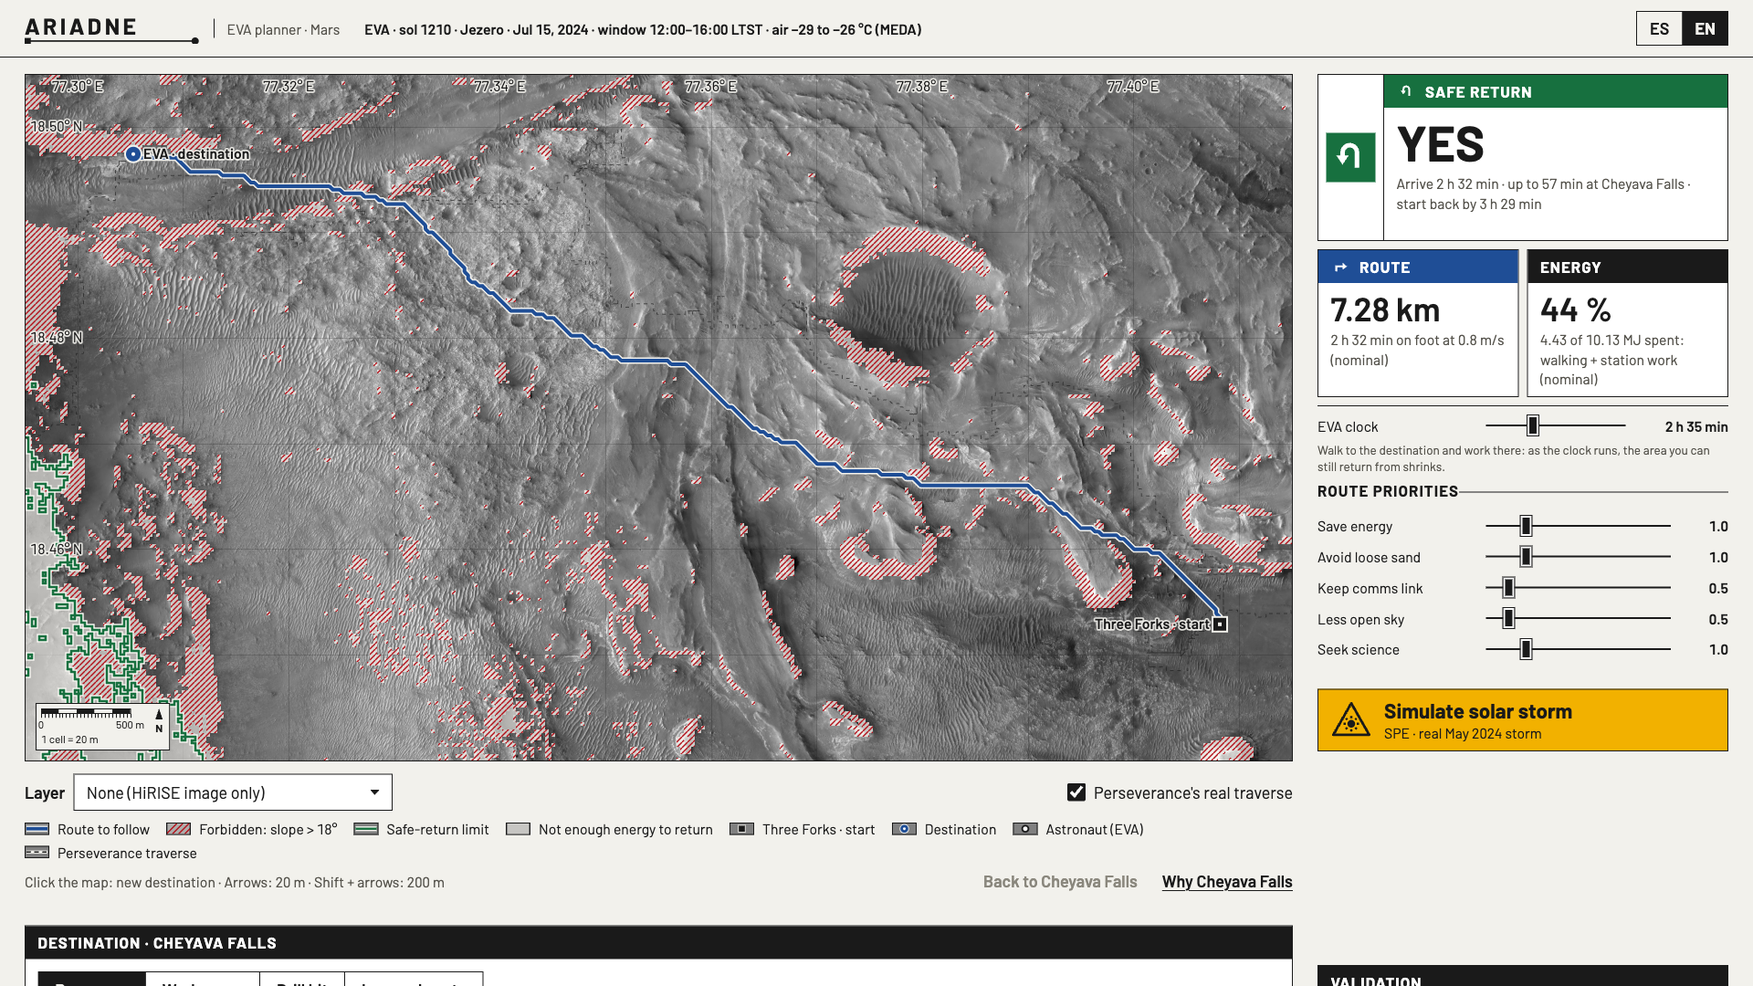
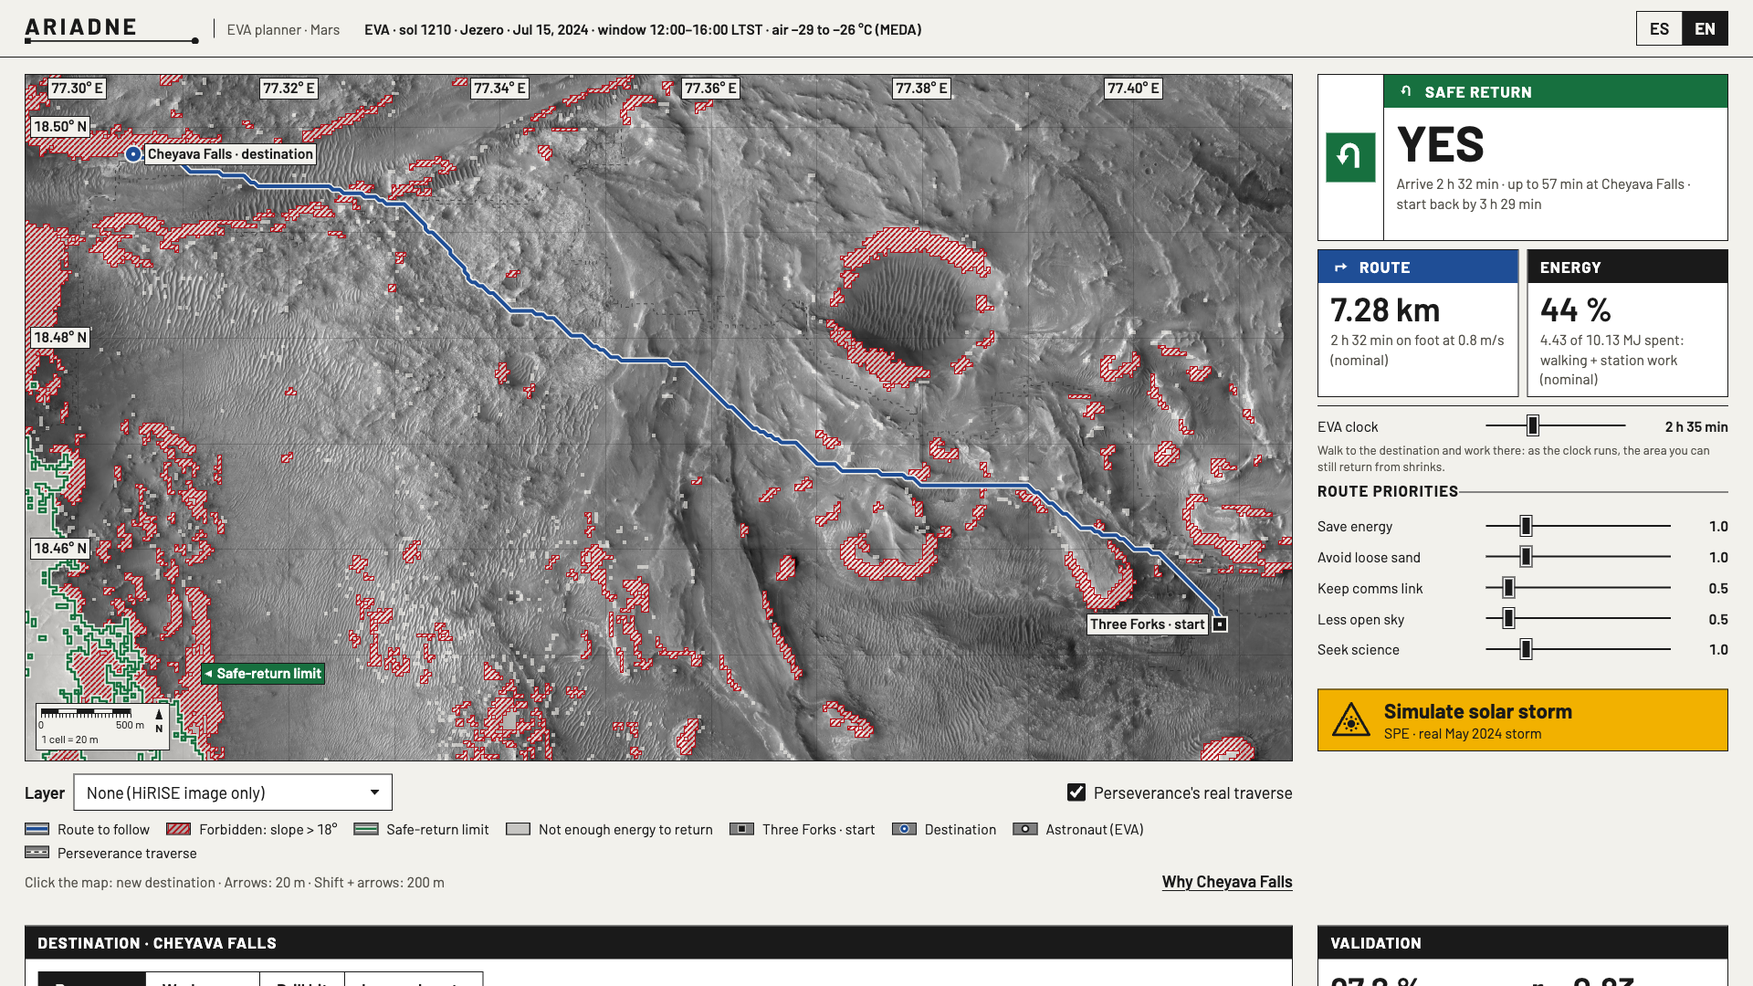
red zone contour, plate labels, cleaner panorama

diff --git a/app/web/main.js b/app/web/main.js
@@ -29,7 +29,8 @@ const state = { goal: 0, route: [], stats: null, spe: null, safe: "pending", spe
 
 const canvas = $("map"), ctx = canvas.getContext("2d");
 let k = 1, sx = 1, sy = 1;
-let bgCache, hatchCache, geoCache, geoEdges, envCanvas, envPath, layerCanvas, forbidMask;
+let bgCache, hatchCache, geoCache, geoEdges, envCanvas, envPath, envNote, layerCanvas, forbidMask, forbidCells, forbidPath;
+const MIN_FORBID_CELLS = 4;
 const unitMasks = new Map(), ranges = {};
 const idx = ([r, c]) => r * cols + c;
 const weights = () => Object.fromEntries(WEIGHTS.map((w) => [w, Number($(`w-${w}`).value)]));
@@ -49,7 +50,7 @@ function pattern(spec, kk) {
 }
 function hatchPattern() {
   const T = Math.round(6 * k), c = mk(T, T), x = c.getContext("2d");
-  x.strokeStyle = tok("--red"); x.lineWidth = 1.5 * k; x.beginPath();
+  x.strokeStyle = tok("--red"); x.lineWidth = Math.max(2, 2 * k); x.beginPath();
   for (const o of [-T, 0, T]) { x.moveTo(o, T); x.lineTo(o + T, 0); }
   x.stroke();
   return x.createPattern(c, "repeat");
@@ -63,6 +64,20 @@ function edges(a) {
     if (r + 1 < rows && a[i] !== a[i + cols]) { const y = Math.round((r + 1) * sy); p.moveTo(Math.round(c * sx), y); p.lineTo(Math.round((c + 1) * sx), y); }
   }
   return p;
+}
+
+function forbidVisual(e) {
+  const out = new Uint8Array(e.length), seen = new Uint8Array(e.length);
+  for (let s = 0; s < e.length; s++) {
+    if (e[s] !== Infinity || seen[s]) continue;
+    const reg = [s]; seen[s] = 1;
+    for (let n = 0; n < reg.length; n++) {
+      const i = reg[n], r = (i / cols) | 0, c = i % cols;
+      for (const j of [c > 0 ? i - 1 : -1, c + 1 < cols ? i + 1 : -1, r > 0 ? i - cols : -1, r + 1 < rows ? i + cols : -1]) if (j >= 0 && e[j] === Infinity && !seen[j]) { seen[j] = 1; reg.push(j); }
+    }
+    if (reg.length >= MIN_FORBID_CELLS) for (const i of reg) out[i] = 1;
+  }
+  return out;
 }
 
 function sign(id, cx, cy, size) {
@@ -93,7 +108,20 @@ function updateEnv() {
   for (let i = 0; i < envMask.length; i++) if (!envMask[i]) id.data.set([r, g, b, a], i * 4);
   envCanvas ??= mk(cols, rows);
   envCanvas.getContext("2d").putImageData(id, 0, 0);
-  envPath = edges(envMask.map((v, i) => v || returnEnergy[i] === Infinity ? 1 : 0));
+  const inside = envMask.map((v, i) => v || returnEnergy[i] === Infinity ? 1 : 0);
+  envPath = edges(inside);
+  const bx = Math.round(cols * 0.15), by = Math.round(rows * 0.15), hug = { left: [], right: [], top: [], bottom: [] };
+  let inner = 0;
+  for (let i = 0; i < inside.length; i++) {
+    const c = i % cols, r = (i / cols) | 0;
+    if (!((c + 1 < cols && inside[i] !== inside[i + 1]) || (r + 1 < rows && inside[i] !== inside[i + cols]))) continue;
+    if (c < bx) hug.left.push([r, c]); else if (c >= cols - bx) hug.right.push([r, c]); else if (r < by) hug.top.push([r, c]); else if (r >= rows - by) hug.bottom.push([r, c]); else inner++;
+  }
+  const side = Object.keys(hug).sort((a, b) => hug[b].length - hug[a].length)[0], e = hug[side];
+  envNote = inner >= 60 ? null : !e.length ? { side: "none" } : (() => {
+    const horiz = side === "left" || side === "right", along = e.map((p) => p[horiz ? 0 : 1]).sort((a, b) => a - b)[e.length >> 1], depth = e.map((p) => p[horiz ? 1 : 0]);
+    return { side, along, depth: side === "left" || side === "top" ? Math.max(...depth) : Math.min(...depth) };
+  })();
 }
 
 function recompute() {
@@ -105,7 +133,7 @@ function recompute() {
   if (!state.moved) $("elapsed").value = state.route.length ? Math.min($("elapsed").max, Math.ceil(state.tl.tArr / 300) * 5) : 0;
   renderOutputs(); clearSpe(); updateEnv(); renderPanels(); draw();
 }
-function setGoal(i) { state.goal = i; state.moved = false; $("reset-goal").disabled = i === cheyava; recompute(); }
+function setGoal(i) { state.goal = i; state.moved = false; $("reset-goal").hidden = i === cheyava; recompute(); }
 
 function simulateSpe() {
   if (state.spe) { clearSpe(); draw(); return; }
@@ -300,7 +328,7 @@ function rebuildStatic() {
   hx.drawImage(forbidMask, 0, 0, W, H); hx.globalCompositeOperation = "source-in"; hx.fillStyle = tok("--wash-forbid"); hx.fillRect(0, 0, W, H);
   lx.fillStyle = hatchPattern(); lx.fillRect(0, 0, W, H); lx.globalCompositeOperation = "destination-in"; lx.drawImage(forbidMask, 0, 0, W, H);
   hx.globalCompositeOperation = "source-over"; hx.drawImage(l, 0, 0);
-  geoCache = null;
+  geoCache = null; forbidPath = edges(forbidCells);
   updateEnv();
 }
 function resize() {
@@ -343,6 +371,7 @@ function draw() {
   ctx.stroke();
   ctx.drawImage(envCanvas, 0, 0, W, H); ctx.drawImage(hatchCache, 0, 0);
   ctx.lineCap = "square"; ctx.lineJoin = "miter";
+  ctx.save(); if (Math.round(k) % 2) ctx.translate(0.5, 0.5); ctx.strokeStyle = tok("--red"); ctx.lineWidth = Math.max(1, Math.round(k)); ctx.stroke(forbidPath); ctx.restore();
   ctx.strokeStyle = ground; ctx.lineWidth = 5.5 * k; ctx.stroke(envPath);
   ctx.strokeStyle = tok("--green"); ctx.lineWidth = 2.5 * k; ctx.stroke(envPath);
 
@@ -357,8 +386,8 @@ function draw() {
   const dot = (x, y, r, c) => { ctx.beginPath(); ctx.arc(x, y, r, 0, TAU); ctx.fillStyle = c; ctx.fill(); };
   const mark = (text, x, y) => {
     ctx.font = font(600, FS);
-    const flip = x + 11 + ctx.measureText(text).width > Wc - 4;
-    labels.push({ text, x: flip ? x - 11 : x + 11, y, a: flip ? "right" : "left", w: 600, s: FS });
+    const flip = x + 16 + ctx.measureText(text).width + 8 > Wc - 4;
+    labels.push({ text, x: flip ? x - 16 : x + 16, y, a: flip ? "right" : "left", s: FS });
   };
   ctx.lineJoin = "round";
   if ($("show-traverse").checked && trav.length > 1) { ctx.lineCap = "butt"; ctx.globalAlpha = 0.6; trace(trav, ink, 1, [4, 4]); ctx.globalAlpha = 1; }
@@ -372,26 +401,48 @@ function draw() {
     const [x, y] = P(state.goal);
     dot(x, y, 10, ground); dot(x, y, 8, blue); dot(x, y, 2, surface);
     if (state.safe === "forbidden") { ctx.beginPath(); ctx.arc(x, y, 11, 0, TAU); ctx.strokeStyle = tok("--red"); ctx.lineWidth = 2; ctx.stroke(); }
-    mark(t(onGoal ? "label.eva_dest" : state.goal === cheyava ? "label.cheyava" : "label.dest"), x, y);
+    mark(t(state.goal === cheyava ? "label.cheyava_dest" : "label.dest"), x, y);
   }
   if (eva && !onGoal) { const [x, y] = P(astronautCell()); dot(x, y, 8.75, ground); dot(x, y, 7.25, ink); dot(x, y, 4.75, surface); mark(t("label.eva"), x, y); }
   if (state.spe && state.spe.refuge !== habitat) { const [x, y0] = P(state.spe.refuge), y = state.spe.kind === "here" ? y0 - 20 : y0; box(x, y, 22, ground); sign("s-refuge", x, y, 18); mark(t("label.refuge"), x, y); }
-  if (key === "geo_unit") for (const u of geoInfo) if (u.n >= 150) { const [x, y] = P(u.cell); labels.push({ text: u.symbol, x, y, a: "center", w: 600, s: 12 }); }
-  for (const [v, c] of grat.lon) if (Math.round(v * 100) % 2 === 0 && c * sx / k > 24 && c * sx / k < Wc - 24) labels.push({ text: t("grat.lon", { v: num(v, 2) }), x: c * sx / k, y: 14, a: "center", w: 400, s: FS });
-  for (const [v, r] of grat.lat) if (Math.round(v * 100) % 2 === 0 && r * sy / k > 24 && r * sy / k < Hc - 60) labels.push({ text: t("grat.lat", { v: num(v, 2) }), x: 6, y: r * sy / k, a: "left", w: 400, s: FS });
-  ctx.textBaseline = "middle"; ctx.lineJoin = "round"; ctx.setLineDash([]);
-  for (const l of labels) {
-    ctx.font = font(l.w, l.s); ctx.textAlign = l.a; ctx.lineWidth = 3.5; ctx.strokeStyle = tok("--halo"); ctx.strokeText(l.text, l.x, l.y);
-    ctx.fillStyle = ink; ctx.fillText(l.text, l.x, l.y);
+  if (key === "geo_unit") for (const u of geoInfo) if (u.n >= 150) { const [x, y] = P(u.cell); labels.push({ text: u.symbol, x, y, a: "center", s: 12 }); }
+  const sb = scaleBox(Hc, ink, ground, font, Wc < 600), placed = [sb];
+  const hair = 1 / k, snap = (v) => Math.round(v * k) / k, PADX = 4;
+  ctx.textBaseline = "middle"; ctx.setLineDash([]);
+  const plate = (l, optional) => {
+    ctx.font = font(600, l.s);
+    const tw = ctx.measureText(l.text).width, ar = l.arrow, ex = ar === "left" || ar === "right" ? 14 : 0, ey = ar === "up" || ar === "down" ? 12 : 0;
+    const w = snap(tw + 2 * PADX + ex), h = snap(Math.round(l.s * 1.5) + ey);
+    const x = snap(l.a === "left" ? l.x - PADX - (ar === "left" ? ex : 0) : l.a === "right" ? l.x - w + PADX + (ar === "right" ? ex : 0) : l.x - w / 2), y = snap(l.y - h / 2), r = { x, y, w, h };
+    if (optional && placed.some((p) => r.x < p.x + p.w && r.x + r.w > p.x && r.y < p.y + p.h && r.y + r.h > p.y)) return null;
+    placed.push(r);
+    ctx.fillStyle = l.fill ?? ground; ctx.fillRect(x, y, w, h);
+    ctx.strokeStyle = ink; ctx.lineWidth = hair; ctx.strokeRect(x + hair / 2, y + hair / 2, w - hair, h - hair);
+    const cx = x + (ar === "left" ? ex : 0) + (w - ex) / 2, cy = y + (ar === "up" ? ey : 0) + (h - ey) / 2;
+    ctx.fillStyle = l.color ?? ink; ctx.textAlign = "center"; ctx.fillText(l.text, cx, cy);
+    if (ar) {
+      const [mx, my] = { left: [x + 4, y + h / 2], right: [x + w - 4, y + h / 2], up: [x + w / 2, y + 3], down: [x + w / 2, y + h - 3] }[ar], d = { left: [1, 0], right: [-1, 0], up: [0, 1], down: [0, -1] }[ar];
+      ctx.beginPath(); ctx.moveTo(mx, my); ctx.lineTo(mx + d[0] * 8 - d[1] * 4, my + d[1] * 8 + d[0] * 4); ctx.lineTo(mx + d[0] * 8 + d[1] * 4, my + d[1] * 8 - d[0] * 4); ctx.closePath(); ctx.fill();
+    }
+    return r;
+  };
+  for (const l of labels) plate(l);
+  if (envNote) {
+    const n = envNote, green = tok("--green"), on = tok("--on-color"), cw = sx / k, ch = sy / k, text = t(n.side === "none" ? "label.env_none" : "label.env");
+    const base = { text, s: FS, fill: green, color: on }, at = { none: { a: "right", x: Wc - 12, y: 40 }, left: { a: "left", x: (n.depth + 3) * cw + 8, y: (n.along + 0.5) * ch, arrow: "left" },
+      right: { a: "right", x: (n.depth - 3) * cw - 8, y: (n.along + 0.5) * ch, arrow: "right" }, top: { a: "center", x: (n.along + 0.5) * cw, y: (n.depth + 3) * ch + 16, arrow: "up" }, bottom: { a: "center", x: (n.along + 0.5) * cw, y: (n.depth - 3) * ch - 16, arrow: "down" } }[n.side];
+    for (let i = 0; i < 8 && !plate({ ...base, ...at, y: Math.min(Hc - 30, Math.max(30, at.y)) + ((i + 1) >> 1) * (i % 2 ? -28 : 28) }, true); i++);
   }
-  scaleBox(Hc, ink, ground, font);
+  const gs = Wc < 600 ? 4 : 2;
+  for (const [v, c] of grat.lon) if (Math.round(v * 100) % gs === 0 && c * sx / k > 24 && c * sx / k < Wc - 24) plate({ text: t("grat.lon", { v: num(v, 2) }), x: c * sx / k, y: 16, a: "center", s: FS }, true);
+  for (const [v, r] of grat.lat) if (Math.round(v * 100) % gs === 0 && r * sy / k > 30 && r * sy / k < Hc - 30) plate({ text: t("grat.lat", { v: num(v, 2) }), x: 10, y: r * sy / k, a: "left", s: FS }, true);
 }
 
-function scaleBox(Hc, ink, ground, font) {
+function scaleBox(Hc, ink, ground, font, compact) {
   const cw = sx / k, L = [25, 50, 100].find((n) => n * cw >= 90) ?? 100, bar = L * cw, pad = 6, hair = 1 / k, snap = (v) => Math.round(v * k) / k;
   ctx.font = font(400, 12);
-  const end = `${L * 20} m`, w = Math.max(bar + ctx.measureText(end).width / 2, ctx.measureText(t("scale.cell")).width);
-  const bw = pad * 2 + w + 22, bh = pad * 2 + 6 + 4 + 14 + 16, x0 = 12, y0 = snap(Hc - 12 - bh), bx = x0 + pad, by = y0 + pad;
+  const end = `${L * 20} m`, w = Math.max(bar + ctx.measureText(end).width / 2, compact ? 0 : ctx.measureText(t("scale.cell")).width);
+  const bw = pad * 2 + w + (compact ? 18 : 22), bh = pad * 2 + 6 + 4 + 14 + (compact ? 0 : 16), x0 = 12, y0 = snap(Hc - 12 - bh), bx = x0 + pad, by = y0 + pad;
   ctx.fillStyle = ground; ctx.fillRect(x0, y0, bw, bh);
   ctx.strokeStyle = ink; ctx.lineWidth = hair; ctx.strokeRect(x0 + hair / 2, y0 + hair / 2, bw - hair, bh - hair);
   for (let s = 0; s < L / 5; s++) { ctx.fillStyle = s % 2 ? ground : ink; ctx.fillRect(bx + s * 5 * cw, by, 5 * cw, 6); }
@@ -403,10 +454,11 @@ function scaleBox(Hc, ink, ground, font) {
   const ly = by + 10 + 8;
   ctx.fillText("0", bx, ly); ctx.fillText(end, bx + bar, ly);
   if (5 * cw >= 30) ctx.fillText("100", bx + 5 * cw, ly);
-  ctx.textAlign = "left"; ctx.fillText(t("scale.cell"), bx, ly + 16);
-  const ax = x0 + bw - pad - 6;
-  ctx.beginPath(); ctx.moveTo(ax, by); ctx.lineTo(ax + 4, by + 12); ctx.lineTo(ax - 4, by + 12); ctx.closePath(); ctx.fill();
-  ctx.font = font(700, 12); ctx.textAlign = "center"; ctx.fillText(t("scale.north"), ax, by + 22);
+  if (!compact) { ctx.textAlign = "left"; ctx.fillText(t("scale.cell"), bx, ly + 16); }
+  const ax = x0 + bw - pad - 6, ah = compact ? 8 : 12;
+  ctx.beginPath(); ctx.moveTo(ax, by); ctx.lineTo(ax + 4, by + ah); ctx.lineTo(ax - 4, by + ah); ctx.closePath(); ctx.fill();
+  ctx.font = font(700, 12); ctx.textAlign = "center"; ctx.fillText(t("scale.north"), ax, by + ah + 10);
+  return { x: x0, y: y0, w: bw, h: bh };
 }
 
 const controls = () => document.querySelectorAll(".side-col input, .side-col button, .map-strip input, .map-strip select, #reset-goal");
@@ -444,8 +496,9 @@ async function boot() {
   const walkable = (e) => e !== Infinity;
   traversePct = traverse.length ? (100 * traverse.filter((rc) => walkable(energy[idx(rc)])).length) / traverse.length : NaN;
   basePct = (100 * energy.filter(walkable).length) / energy.length;
+  forbidCells = forbidVisual(energy);
   forbidMask = mk(cols, rows);
-  { const id = new ImageData(cols, rows); for (let i = 0; i < energy.length; i++) if (energy[i] === Infinity) id.data[i * 4 + 3] = 255; forbidMask.getContext("2d").putImageData(id, 0, 0); }
+  { const id = new ImageData(cols, rows); for (let i = 0; i < forbidCells.length; i++) if (forbidCells[i]) id.data[i * 4 + 3] = 255; forbidMask.getContext("2d").putImageData(id, 0, 0); }
   if (layers.geo_unit && geounits) {
     const acc = new Map(), g = layers.geo_unit;
     for (let i = 0; i < g.length; i++) if (g[i]) { const a = acc.get(g[i]) ?? { n: 0, r: 0, c: 0, d: Infinity }; a.n++; a.r += (i / cols) | 0; a.c += i % cols; acc.set(g[i], a); }
@@ -481,12 +534,13 @@ async function boot() {
 
   ready = true;
   for (const c of controls()) c.disabled = false;
-  $("reset-goal").disabled = true; $("status").hidden = true;
+  $("reset-goal").hidden = true; $("status").hidden = true;
   buildLayer();
   let rz; new ResizeObserver(() => { clearTimeout(rz); rz = setTimeout(resize, 100); }).observe(canvas);
   resize();
   recompute();
   renderAll();
+  { const sc = document.querySelector(".map-scroll"), mid = ((habitat % cols) + (cheyava % cols)) / 2 / cols; sc.scrollLeft = Math.max(0, sc.scrollWidth * mid - sc.clientWidth / 2); }
   document.querySelector("main").setAttribute("aria-busy", "false");
 }
 boot().catch((e) => { console.error(e); showCoreError(e.file ?? e.message); });

diff --git a/app/web/index.html b/app/web/index.html
@@ -40,14 +40,14 @@
     <div class="col">
     <section class="map-col" aria-labelledby="map-t">
       <h2 id="map-t" class="sr" data-i18n="map.region">Mapa de la EVA, cráter Jezero</h2>
-      <div class="map-frame">
+      <div class="map-scroll"><div class="map-frame">
         <canvas id="map" tabindex="0" role="application" data-i18n-aria="map.canvas" aria-label="Mapa de Jezero con la ruta desde Three Forks. Flechas: mueve el destino 20 m; Mayús y flechas: 200 m."></canvas>
         <p id="status" class="status" data-i18n="map.loading">Cargando datos de Jezero…</p>
         <section id="map-error" class="z535 map-error" data-tone="danger" role="alert" aria-labelledby="err-t" hidden>
           <h2 class="band" id="err-t"><svg class="glyph" aria-hidden="true"><use href="#g-prohibit"/></svg><span data-i18n="err.title">Error de datos</span></h2>
           <div class="body"><p id="err-body" class="detail"></p></div>
         </section>
-      </div>
+      </div></div>
 
       <div class="map-strip">
         <div class="strip-a">
@@ -70,7 +70,7 @@
 
         <ul class="legend" aria-label="Leyenda" data-i18n-aria="legend.title">
           <li><svg class="lg" viewBox="0 0 24 12" aria-hidden="true"><path d="M0 6H24" style="stroke:var(--ground)" stroke-width="7"/><path d="M0 6H24" style="stroke:var(--blue)" stroke-width="4"/></svg><span data-lg="route">Ruta a seguir</span></li>
-          <li><svg class="lg" viewBox="0 0 24 12" aria-hidden="true"><rect width="24" height="12" style="fill:var(--ground);fill-opacity:.4"/><path d="M-2 12L10 0M5 12L17 0M12 12L24 0M19 12L31 0" style="stroke:var(--red)" stroke-width="1.5"/></svg><span data-lg="forbidden">Prohibido: pendiente &gt; 18°</span></li>
+          <li><svg class="lg" viewBox="0 0 24 12" aria-hidden="true"><rect width="24" height="12" style="fill:var(--ground);fill-opacity:.4"/><path d="M-2 12L10 0M5 12L17 0M12 12L24 0M19 12L31 0" style="stroke:var(--red)" stroke-width="2"/><rect x=".5" y=".5" width="23" height="11" fill="none" style="stroke:var(--red)"/></svg><span data-lg="forbidden">Prohibido: pendiente &gt; 18°</span></li>
           <li><svg class="lg" viewBox="0 0 24 12" aria-hidden="true"><path d="M0 6H24" style="stroke:var(--ground)" stroke-width="5.5"/><path d="M0 6H24" style="stroke:var(--green)" stroke-width="2.5"/></svg><span data-lg="envelope">Límite de vuelta segura</span></li>
           <li><svg class="lg" viewBox="0 0 24 12" aria-hidden="true"><rect width="24" height="12" style="fill:var(--ground);fill-opacity:.62"/></svg><span data-lg="outside">Sin energía para volver</span></li>
           <li><svg class="lg" viewBox="0 0 24 12" aria-hidden="true"><rect x="8" y="2" width="8" height="8" style="fill:var(--ink);stroke:var(--ground)" stroke-width="1"/></svg><span data-lg="start">Three Forks · inicio</span></li>
@@ -83,8 +83,8 @@
 
         <div class="strip-c">
           <p id="hint" class="hint">Clic en el mapa: nuevo destino · Flechas: 20 m · Mayús + flechas: 200 m</p>
-          <button type="button" id="reset-goal" class="text-btn" data-i18n="map.reset" disabled>Volver a Cheyava Falls</button>
           <a href="#destino" id="why" class="text-btn" data-i18n="map.why">Por qué Cheyava Falls</a>
+          <button type="button" id="reset-goal" class="text-btn" data-i18n="map.reset" hidden>Volver a Cheyava Falls</button>
         </div>
       </div>
     </section>

diff --git a/app/web/style.css b/app/web/style.css
@@ -51,11 +51,13 @@ html, .viewer { scrollbar-color: var(--ink) var(--ground-2); }
 .lang button[aria-pressed="true"] { background: var(--ink); color: var(--ground); font-weight: 700; }
 .lang button:not([aria-pressed="true"]):hover { background: var(--ground-2); }
 
-.console { display: grid; grid-template-columns: minmax(0, 1fr) var(--side-w); gap: var(--s5); padding: var(--s4) var(--s5) var(--s5); align-items: start; }
-.col { display: flex; flex-direction: column; gap: var(--s6); min-width: 0; }
-.map-col { min-width: 0; }
-.side-col { display: flex; flex-direction: column; gap: var(--s2); min-width: 0; }
+.console { display: grid; grid-template-columns: minmax(0, 1fr) var(--side-w); grid-template-areas: "map side" "dest val"; gap: var(--s6) var(--s5); padding: var(--s4) var(--s5) var(--s5); align-items: start; }
+.col { display: contents; }
+.map-col { grid-area: map; min-width: 0; }
+.side-col { grid-area: side; display: flex; flex-direction: column; gap: var(--s2); min-width: 0; }
+.card-dest { grid-area: dest; min-width: 0; } .card-val { grid-area: val; min-width: 0; }
 
+.map-scroll { min-width: 0; }
 .map-frame { position: relative; background: var(--ground-2); aspect-ratio: 356 / 193;
   width: min(100%, calc((100svh - 3.5rem - 2 * var(--s4) - var(--strip-h)) * 356 / 193)); }
 .map-frame::after { content: ""; position: absolute; inset: 0; border: var(--hair) solid var(--ink); pointer-events: none; }
@@ -153,7 +155,6 @@ input[type=range]:disabled { cursor: not-allowed; opacity: .4; }
 .spe[aria-pressed="true"] .spe-label { color: var(--yellow); }
 .spe:disabled, .spe:disabled:hover { background: var(--ground-2); color: var(--ink-3); cursor: not-allowed; }
 .spe:disabled svg { filter: grayscale(1); opacity: .5; }
-.spe-slot { min-height: 10.5rem; }
 .spe-act { font: 600 var(--t-lg)/1.25 var(--font); }
 .spe-act.long { font-size: var(--t-md); }
 .spe-line { font-size: var(--t-xs); margin-top: var(--s1); }
@@ -200,12 +201,9 @@ input[type=range]:disabled { cursor: not-allowed; opacity: .4; }
   .brand { flex: 1; }
   .wordmark { width: 140px; }
   .scenario { order: 3; flex-basis: 100%; }
-  .console { grid-template-columns: minmax(0, 1fr); padding-inline: var(--s4); gap: var(--s4); }
-  .col { display: contents; }
-  .map-col { order: 1; } .side-col { order: 2; } .card-dest { order: 3; } .card-val { order: 4; }
+  .console { grid-template-columns: minmax(0, 1fr); grid-template-areas: "map" "side" "dest" "val"; padding-inline: var(--s4); gap: var(--s4); }
   .layer-legend.geo { grid-template-columns: repeat(2, minmax(0, 1fr)); }
   .map-frame { width: 100%; }
-  .spe-slot { min-height: 0; }
   .card-grid { grid-template-columns: minmax(0, 1fr); }
   .viewer { height: 12.5rem; }
   .pair .value { font-size: var(--t-lg); }
@@ -213,4 +211,12 @@ input[type=range]:disabled { cursor: not-allowed; opacity: .4; }
   .eva .slider { grid-template-columns: 7rem minmax(0, 1fr) 5.5rem; }
   .credits { padding-inline: var(--s4); }
 }
-@media (max-width: 599px) { .descriptor { display: none; } }
+@media (max-width: 899px) {
+  .tabs { flex-wrap: nowrap; overflow-x: auto; scrollbar-width: none; }
+  .tabs button { flex: none; white-space: nowrap; }
+}
+@media (max-width: 599px) {
+  .descriptor { display: none; }
+  .map-scroll { overflow-x: auto; overscroll-behavior-x: contain; scrollbar-width: thin; }
+  .map-frame { width: 125vw; }
+}

diff --git a/app/web/cards.js b/app/web/cards.js
@@ -19,7 +19,7 @@ function dest({ data: { science: sci, pov }, t, date, pick }) {
       const p = photos[n], pano = p.file.startsWith("pano"), img = new Image();
       img.alt = pick(p, "caption"); img.src = `data/pov/${p.file}`;
       view.className = `viewer${pano ? "" : " fit"}`; view.replaceChildren(img);
-      if (pano) img.onload = () => { view.scrollLeft = first && keep != null ? keep : view.scrollWidth * 0.55 - view.clientWidth / 2; };
+      if (pano) img.onload = () => { view.scrollLeft = first && keep != null ? keep : view.scrollWidth * 0.66 - view.clientWidth / 2; };
       view.setAttribute("aria-labelledby", `tab-${n}`);
       const src = /^https?:/.test(p.source_url ?? "") ? ` · <a href="${esc(p.source_url)}">${esc(t("pov.source"))}</a>` : "";
       cap.innerHTML = `<p>${esc(pick(p, "caption"))}</p><p class="caption">${esc(t("pov.meta", { instrument: p.instrument, sol: p.sol, date: date(p.date_utc) }))}<br>${esc(t("pov.credit", { credit: p.credit }))}${src}${pano ? `<br>${esc(t("pov.drag"))}` : ""}</p>`;

diff --git a/app/web/i18n.js b/app/web/i18n.js
@@ -48,8 +48,10 @@ export const DICT = {
     "label.start": "Three Forks · inicio",
     "label.cheyava": "Cheyava Falls",
     "label.dest": "Destino",
-    "label.eva": "EVA",
-    "label.eva_dest": "EVA · destino",
+    "label.eva": "Astronauta",
+    "label.cheyava_dest": "Cheyava Falls · destino",
+    "label.env": "Límite de vuelta segura",
+    "label.env_none": "Límite de vuelta segura: fuera del mapa",
     "label.refuge": "Refugio",
     "label.relay": "Repetidor",
     "scale.cell": "1 celda = 20 m",
@@ -177,8 +179,10 @@ export const DICT = {
     "label.start": "Three Forks · start",
     "label.cheyava": "Cheyava Falls",
     "label.dest": "Destination",
-    "label.eva": "EVA",
-    "label.eva_dest": "EVA · destination",
+    "label.eva": "Astronaut",
+    "label.cheyava_dest": "Cheyava Falls · destination",
+    "label.env": "Safe-return limit",
+    "label.env_none": "Safe-return limit: off the map",
     "label.refuge": "Refuge",
     "label.relay": "Relay",
     "scale.cell": "1 cell = 20 m",
